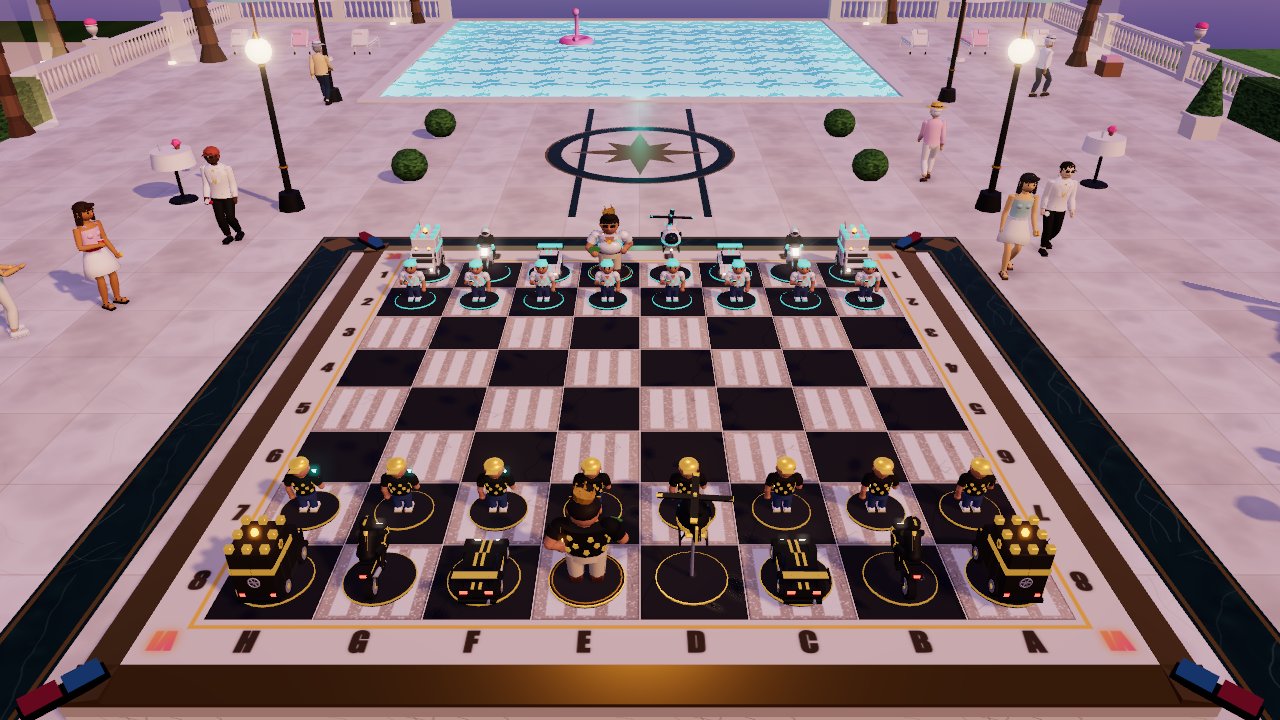
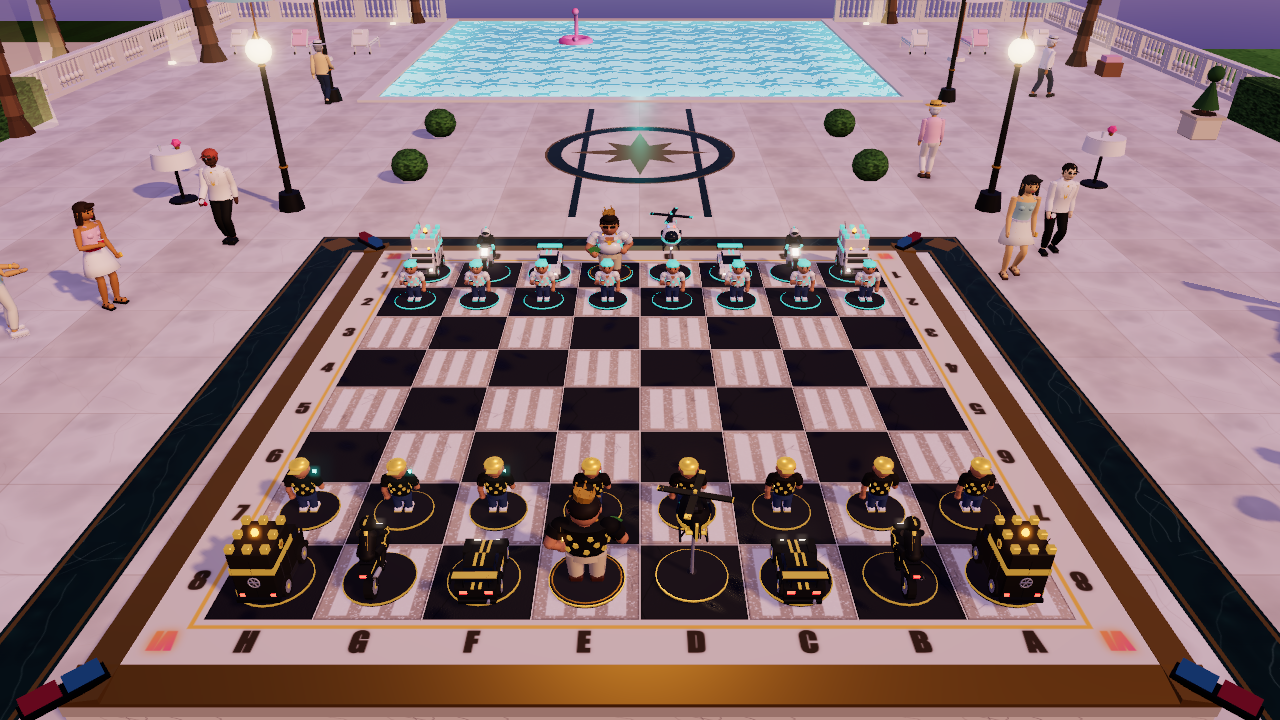
3rd

diff --git a/src/world/arenas/crown.js b/src/world/arenas/crown.js
@@ -134,7 +134,7 @@ export default class CrownArena extends Arena {
     // fountain (between the board and the mansion steps)
     if (gFountain) {
       const f = this.prop(gFountain, { height: 3.4 });
-      B.addObject(f, Batch.mat(0, Y0, -20, 0, 0, 0, 1.35), glbMat({ TINT_Stone: 'marble', WATER: 'fwater' }));
+      B.addObject(f, Batch.mat(0, Y0, -20, 0, 0, 0, 1.35), glbMat({ TINT_Stone: 'marble', WATER: 'fall' }));
     } else fountain(B, 0, -20, Y0, 2.6);
     // parterres flanking the fountain
     for (const sx of [-1, 1]) {
@@ -372,7 +372,7 @@ export default class CrownArena extends Arena {
       water: S(T.water, { roughness: 0.18, metalness: 0.1, envMapIntensity: 1.2 }),
       pool: poolMaterial(t, { sky: T.sky2, glow: T.pool, edge: [16, 14] }),
       fwater: poolMaterial(t, { deep: '#2aa8c0', shallow: '#8ff0ee', sky: T.sky2, glow: T.pool + 0.1, scale: 1.1, edge: [3, 3], speed: 0.9 }),
-      fall: fallMaterial(t, { opacity: 0.5 }),
+      fall: fallMaterial(t, { opacity: 0.6, color: '#bff4ff' }),
       beam: new THREE.MeshBasicMaterial({ color: new THREE.Color('#ffd49a').multiplyScalar(T.beams), map: beamTexture(), transparent: true, depthWrite: false, blending: THREE.AdditiveBlending, side: THREE.DoubleSide, fog: true }),
       tree: S('#2d4a32', { roughness: 1, flatShading: true }),
       hill: S('#56685e', { roughness: 1 }),

diff --git a/src/world/arenas/neon.js b/src/world/arenas/neon.js
@@ -7,7 +7,7 @@ import * as THREE from 'three';
 import { Arena, STREET_Y } from './Arena.js';
 import { rng } from '../util.js';
 import { CarFleet } from './neon/car.js';
-import { L, buildGround, buildMarkings, buildStrip, buildSkyline } from './neon/city.js';
+import { L, neonTextTex, buildGround, buildMarkings, buildStrip, buildSkyline } from './neon/city.js';
 import {
   buildFestoons, buildPalms, buildLamps, speakerObject, startTreeObject, trafficLightObject, foodCartObject,
   buildCones, buildRopes, Confetti,
@@ -298,6 +298,12 @@ export default class NeonArena extends Arena {
       h.position.set(0, STREET_Y + L.kerbH, z - 0.4);
       h.rotation.y = Math.PI;
       this.group.add(h);
+      // blank sign board → gang neon text
+      const sb = h.getObjectByName('SignBoard');
+      if (sb) {
+        const tex = this.track(neonTextTex(boss ? 'VELVET SYNDICATE' : 'VELVET', GANG.purple, { outline: GANG.yellow, italic: true, bg: '#14061f' }));
+        sb.traverse((o) => { if (o.isMesh) o.material = new THREE.MeshBasicMaterial({ map: tex, color: new THREE.Color(1.4, 1.4, 1.4) }); });
+      }
     } else {
       // entrance: glowing doors under a purple canopy with gold trim
       const door = new THREE.Mesh(new THREE.PlaneGeometry(3.2, 2.6), new THREE.MeshBasicMaterial({ color: new THREE.Color('#ff7ac8').multiplyScalar(1.1) }));

diff --git a/src/world/Board.js b/src/world/Board.js
@@ -214,7 +214,7 @@ export class Board {
     const len = outer * 2;
     let mat;
     if (kind === 'gold') {
-      mat = new THREE.MeshStandardMaterial({ color: colors[0], metalness: 0.9, roughness: 0.28 });
+      mat = new THREE.MeshStandardMaterial({ color: colors[0], metalness: 0.85, roughness: 0.45 });
     } else {
       const tex = kind === 'hazard' ? hazardTexture(colors) : planksTexture(colors);
       tex.wrapS = THREE.RepeatWrapping;

diff --git a/docs/arenas/ARENAS_SPEC.md b/docs/arenas/ARENAS_SPEC.md
@@ -296,3 +296,54 @@ standing crowds. Requirements for every arena:
 - Arena workers (B–F): add walker paths suited to your space (beachgoers strolling the boardwalk, dock workers
   walking between containers, race fans crossing the street at the Neon Mile meet, party guests drifting around the
   pool, security guards patrolling the rooftop).
+
+### Changes (worker A — backbone; all additive, existing API unchanged)
+- **World**: `?fps=1` meter (fps, draw calls, tris, geo/tex/programs, NPC count). Pixel ratio ≤ 2 (≤ 1.5 on quality
+  low). Capture reactions now fire from the Pieces explosion fx path (`World._emitFx('explosion')` →
+  `react('capture', {square, victim})`), once per capture, including `playCaptureFx`. **`'finale'` is no longer a side
+  effect of `setCameraPreset('cinematic')`**: `GameController.endGame` calls `world.react('finale', over)`.
+- **ArenaManager**: awaits the shared NPC assets before `build()`. Latest call wins, and superseded or failed builds are
+  disposed (crowd first). A failing arena falls back to classic. At most one shadow-casting light per arena (extras are
+  switched off with a warning). `compileAsync` runs after the swap, with a soft 420 ms fade. `ctx.url` is now set.
+  `arenaManager.loading`. `guessQuality()` exported (`?quality=low|high`).
+- **Board.setSurround(style)** implemented: `frame`, `frameText` (auto-contrast when omitted), `frameLine`, `plinth`,
+  `plinthMap` concrete|wood|marble|steel|none, `kerb` race|none|rope|gold|hazard|planks, `kerbColors`, `neon` (1–2
+  colours or null), `neonIntensity`. It can be called before `build()` and repeatedly, and the old surround is
+  disposed each time. The gold kerb uses roughness 0.45. `SURROUND_DEFAULT` is exported.
+- **NpcCrowd** (real GLBs from `public/models/npc/`, procedural fallback with the same bone names; `?npc=procedural`
+  forces the fallback):
+  - Each NPC is one skinned mesh with one shared vertex-colour material, plus one `AnimationMixer`.
+  - Per-NPC colours come from `look` palettes: TOP/BOTTOM/SKIN/HAIR/ACCENT, plus sleeve and trouser length.
+  - Mixers update at 1/2/3/4-frame rates depending on distance and frustum.
+  - All NPCs get instanced blob shadows. Up to 8 cast real shadows, and only if their shadow can't reach the board.
+  - Clip mapping and extra anims: `idle talk phone cheer clap dance lean sit walk wave_flag drink point` plus `dance2
+    sit_ground crossed`. A missing clip falls back to Idle.
+  - The walk clip speed is calibrated from the foot stride: GLB 1.257 m/s, the Blender note says 1.25.
+- **Walkers — spec "WALKING AROUND THE BOARD"**:
+  - `crowd.walkers({ loop|path:[[x,z(,y)],…], count=6, look|looks, speed=[1.0,1.4], reverse=0.5, spread=0.35,
+    stops=0.3, pauses=['point','phone','talk','wave_flag','idle'], pauseTime=[2,6], spacing=2.2, closed=true, y, … })`.
+    Walkers wander: they pause 2–6 s to point, phone, talk to the nearest standing NPC, wave or watch, then carry on.
+    Starts and stops ease in and out, turning is smooth, and the walk clip time scale follows ground speed (no foot
+    slide). They keep apart from other NPCs and obstacles, never enter the board zone, and slow down behind someone.
+  - `crowd.orbit({ halfW=6.8, halfL=13, corner=1.6, … })` walks a loop all the way around the board, crossing behind
+    the cameras.
+  - **If an arena declares no walkers, `finalize()` adds a default orbit** (8 walkers, 4 on quality low). Opt out with
+    `this.autoWalkers = false`, or tune it with `this.walkerOrbit = {halfW, halfL, …}`, `this.walkerLook`, `this.walkerY`.
+  - `crowd.addObstacle(x,z,r)` / `addObstacles([[x,z,r],…])` register props walkers should steer around.
+  - Ground height, first match wins: per-NPC `spec.ground(x,z)`, then `crowd.groundAt = (x,z) => y`, then the
+    waypoint y in `[x,z,y]` paths.
+  - Reactions: on a capture, walkers within 11 m stop, turn to the square and point or cheer. On the finale, everyone
+    stops, faces the board and cheers or claps for about 6 s.
+  - Also added: `crowd.setAnim(npc, name, {fade, duration})`, `crowd.remove(npc)`, `crowd.backend` ('glb' |
+    'procedural'), `crowd.count`, `crowd.walkerCount`.
+  - Cap: 40 NPCs, 20 on quality low. When the crowd is full, a walker or a spec with `priority: true` replaces the
+    most recent generic standing NPC.
+- **kit.js** exports: `softPulse, breathe, normalizeProp, propLength, glowTexture, neonTextTexture, viTexture,
+  bannerTexture, windowTexture, sunsetSky, addPalms, addStreetLights, buildSkyline, neonSign, festoon, waterPlane`
+  (+ re-exports `canvasTexture, speckle, rng, STREET_Y, mergeGeometries`). All animated lights are slow soft pulses.
+- **classic.js** now builds the old Environment directly on kit.js; `Environment.js` is a legacy re-export. Antenna
+  beacons and neon signs breathe slowly (3.2–5 s, ≤ 30 %) instead of blinking. The crowd: 25 race fans between the
+  barrier and the fence (a flag waver at the start line), 8 sidewalk walkers crossing at zebra crossings z=±17.5, and
+  a few sidewalk groups.
+- **Viewer extras**: `?demo=arena&lineup=1` (every anim on the board, pieces hidden), `&leaktest=1` (prints
+  renderer.info before and after 10 arena round trips; needs a visible tab), `&npc=procedural`.
